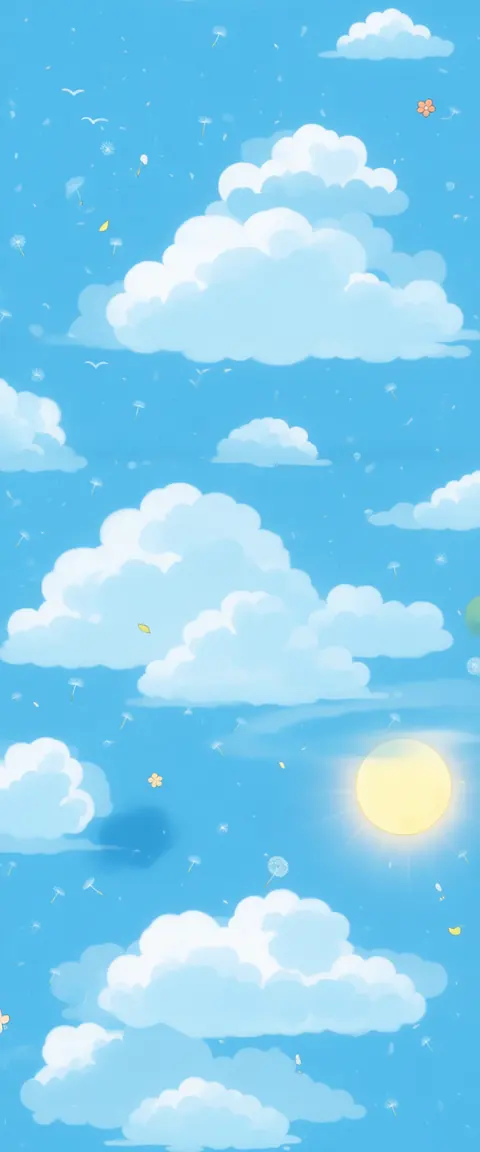
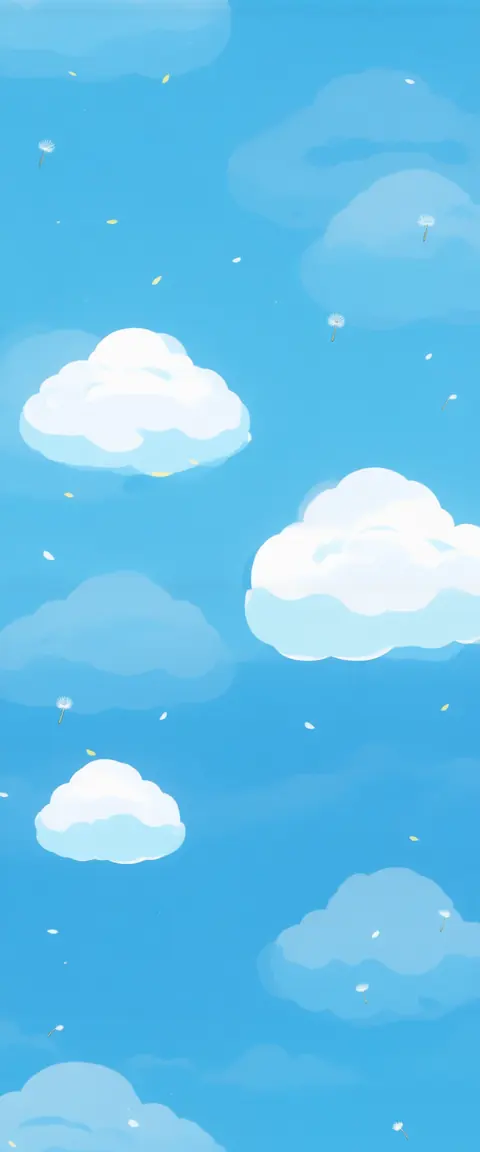
잔디밭을 트인 하늘로 바꾸고, 발밑 반사광을 넣었다 (v1.4.14)
잔디밭 하늘을 구름 서너 덩이만 남긴 트인 하늘로 다시 뽑았다.

'잔디밭 느낌' 은 그림으로는 낼 수 없었다. 배경이 13초 동안 위아래로
흐르는 탓에 그림 속 땅은 화면 중간에 떠 버리고, 실제로 여러 번 시켜도
초록빛이 위쪽에 걸리거나 가운데가 가로로 잘렸다.

그래서 코드로 넣었다 — 바닥 바로 위 190px 에 그 지대의 바닥색을
옅게 깔아, 발밑에서 빛이 튀어 오르는 것처럼 보이게 했다. 잔디밭은
초록, 언덕은 갈색, 달은 잿빛. 하늘 그림과 발밑이 이어져 보인다.
지대마다 색이 달라 18곳 전부에 적용했다.

diff --git a/index.html b/index.html
@@ -757,7 +757,7 @@
   const elFinal = document.getElementById("finalScore");
   const elTitle = document.getElementById("overTitle");
 
-  const GAME_VERSION = "v1.4.13";   // 코드를 고칠 때마다 뒤 두 자리를 올린다
+  const GAME_VERSION = "v1.4.14";   // 코드를 고칠 때마다 뒤 두 자리를 올린다
   document.getElementById("ver").textContent = GAME_VERSION;
 
   const LS_NAME = "epjpddongpi_name";
@@ -4338,6 +4338,21 @@
       }
     }
 
+    /* 발밑에서 튀어 오르는 빛 — 잔디밭이면 초록, 바위면 갈색, 달이면 잿빛.
+       배경이 하늘 그림뿐이라 지금 무엇 위에 서 있는지 읽히지 않는다.
+       바닥 바로 위에 그 지대의 바닥색을 얇게 깔아 두면 공기가 이어져 보인다. */
+    if (bgShown && state !== STATE.READY) {
+      const gt2 = GROUND_TINT[ZONES[zoneIdx()].gr];
+      if (gt2) {
+        const gh = 190, gy = H - GROUND_H - gh;
+        const gg = ctx.createLinearGradient(0, gy, 0, H - GROUND_H);
+        gg.addColorStop(0, "rgba(" + gt2 + ",0)");
+        gg.addColorStop(1, "rgba(" + gt2 + ",.26)");
+        ctx.fillStyle = gg;
+        ctx.fillRect(0, gy, W, gh);
+      }
+    }
+
     // 발밑 — 단계가 바뀌는 동안 다음 지형이 겹쳐 올라온다
     if (state !== STATE.READY) {          // 인트로에서는 발판 없이 날아간다
       const za = ZONES[zoneIdx()], zb = ZONES[Math.min(LAST_Z, zoneIdx() + 1)], zf = zoneFrac();
@@ -4542,6 +4557,11 @@
   }
 
   /* ---- 발밑 지형 ---- */
+  // 바닥에서 튀어 오르는 빛의 색 (drawGround 의 바닥색에서 뽑았다)
+  const GROUND_TINT = {
+    grass: "126,200,90", rock: "170,120,70", cloud: "214,230,250",
+    metal: "120,150,200", moon: "200,192,175", dark: "80,86,120", void: "120,150,255"
+  };
   function drawGround(kind, a) {
     const y = H - GROUND_H;
     ctx.save();
